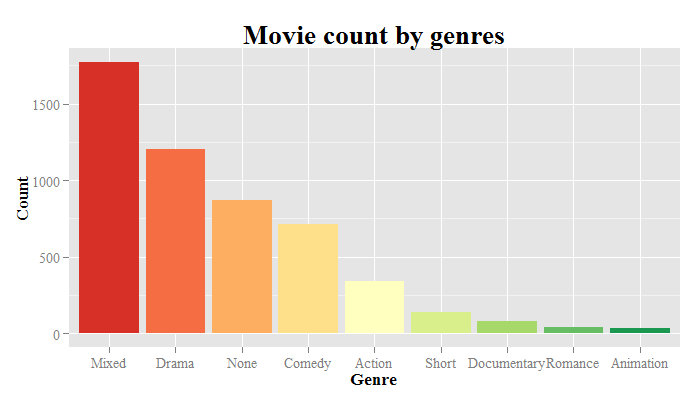
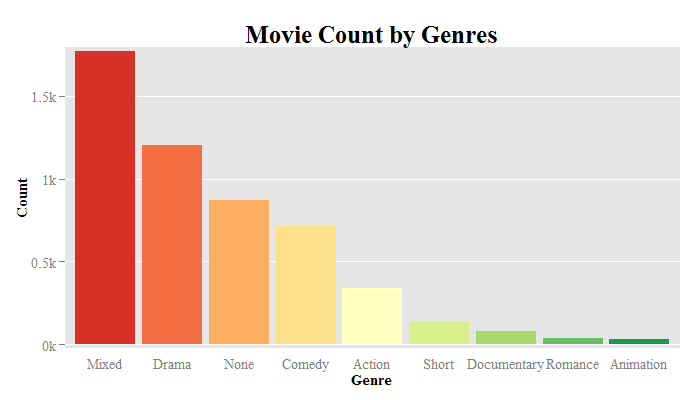
homework1

diff --git a/homework1/README.md b/homework1/README.md
@@ -39,33 +39,29 @@ In the first three movie images, movies with the same genre are assigned to the 
 ```
 
 ```R
-> movies[c("genre", "budget", "rating", "color")][sample(1:nrow(movies), 10), ]
-      genre   budget rating color
-582  Comedy    25000    8.3     4
-4483   None  1200000    4.2     3
-2887  Mixed     1000    6.5     1
-171  Action  8000000    4.1     5
-3635  Mixed  8000000    6.8     1
-3107  Mixed 20000000    5.3     1
-4208   None  3000000    6.1     3
-2467  Mixed    30000    7.5     1
-4853   None 25000000    5.6     3
-2110  Drama   175000    7.0     2
+> movies[c("genre", "budget", "rating", "color")][sample(1:nrow(movies), 6), ]
+         genre   budget rating color
+2549     Mixed 32000000    6.7     1
+346  Animation     5000    7.6     9
+3154     Mixed    17000    8.3     1
+2177     Drama 60000000    6.3     2
+3314     Mixed  8000000    7.7     1
+1603     Drama  3500000    7.6     2
 ```
 
-The color rank column was used as the colors in the images, and `scale_colour_brewer(palette="RdYlGn")` was added to limit the colors into three main colors. Therefore, the genre with more movies has redder color, the genre with less movies has greener color, and the one with median number of movies has yellow color.
+The color rank column was used as colors in the images, and `scale_colour_brewer(palette="RdYlGn")` was added to limit the colors into three main colors. Therefore, the genre with more movies has redder color, the genre with less movies has greener color, and the one with median number of movies has yellow color.
 
 ![IMAGE](hw1-scatter.png)
 
-For the scatter above, I devided the values of x-axis text by 1000000, and added "(Million Dollars)" to the x-axis label. I also changed the labels and name of the legend to make it more readable.
+For the scatter above, I devided the values of x-axis labels by 1,000,000, and added "in Millions" to the x-axis title. I also changed the labels and name of the legend to make it more readable.
 
 ![IMAGE](hw1-bar.png)
 
-For the bar chart above, to emphasize which genre has more movies, I ordered the genres by their movie counts and put the genre with more movies ahead. I also removed the legend as it provides the same color information as the bar charts, i.e. which color represents which genre. 
+For the bar chart above, to emphasize which genre has more movies, I ordered the genres by their movie counts and put the genre with more movies ahead. The legend was removed as it provides the same color information as the bar charts. I also transferred y-axis labels into "*k", and removed x-axis ticks, horizonal minor panels and all vertical panels to make the image simpler.
 
 ![IMAGE](hw1-multiples.png)
 
-For the multiple scatters above, I reordered the small scatters so that the orders of genres are consistent with those in the bar chart. Now, it is clear that the genre on the top and left has the largest number of movies, and the genre on the bottom and right has the smallest number of movies. They are also consistent with the color gradients.
+For the multiple scatters above, I reordered the small scatters so that the orders of genres are consistent with those in the bar chart. Now, it is clear that the genre on the top and left has the largest number of movies, and the genre on the bottom and right has the smallest number of movies. They are also consistent with the color gradients. Legend, horizonal and vertical minor panels were removed as well.
 
 ![IMAGE](hw1-multiline.png)
 
